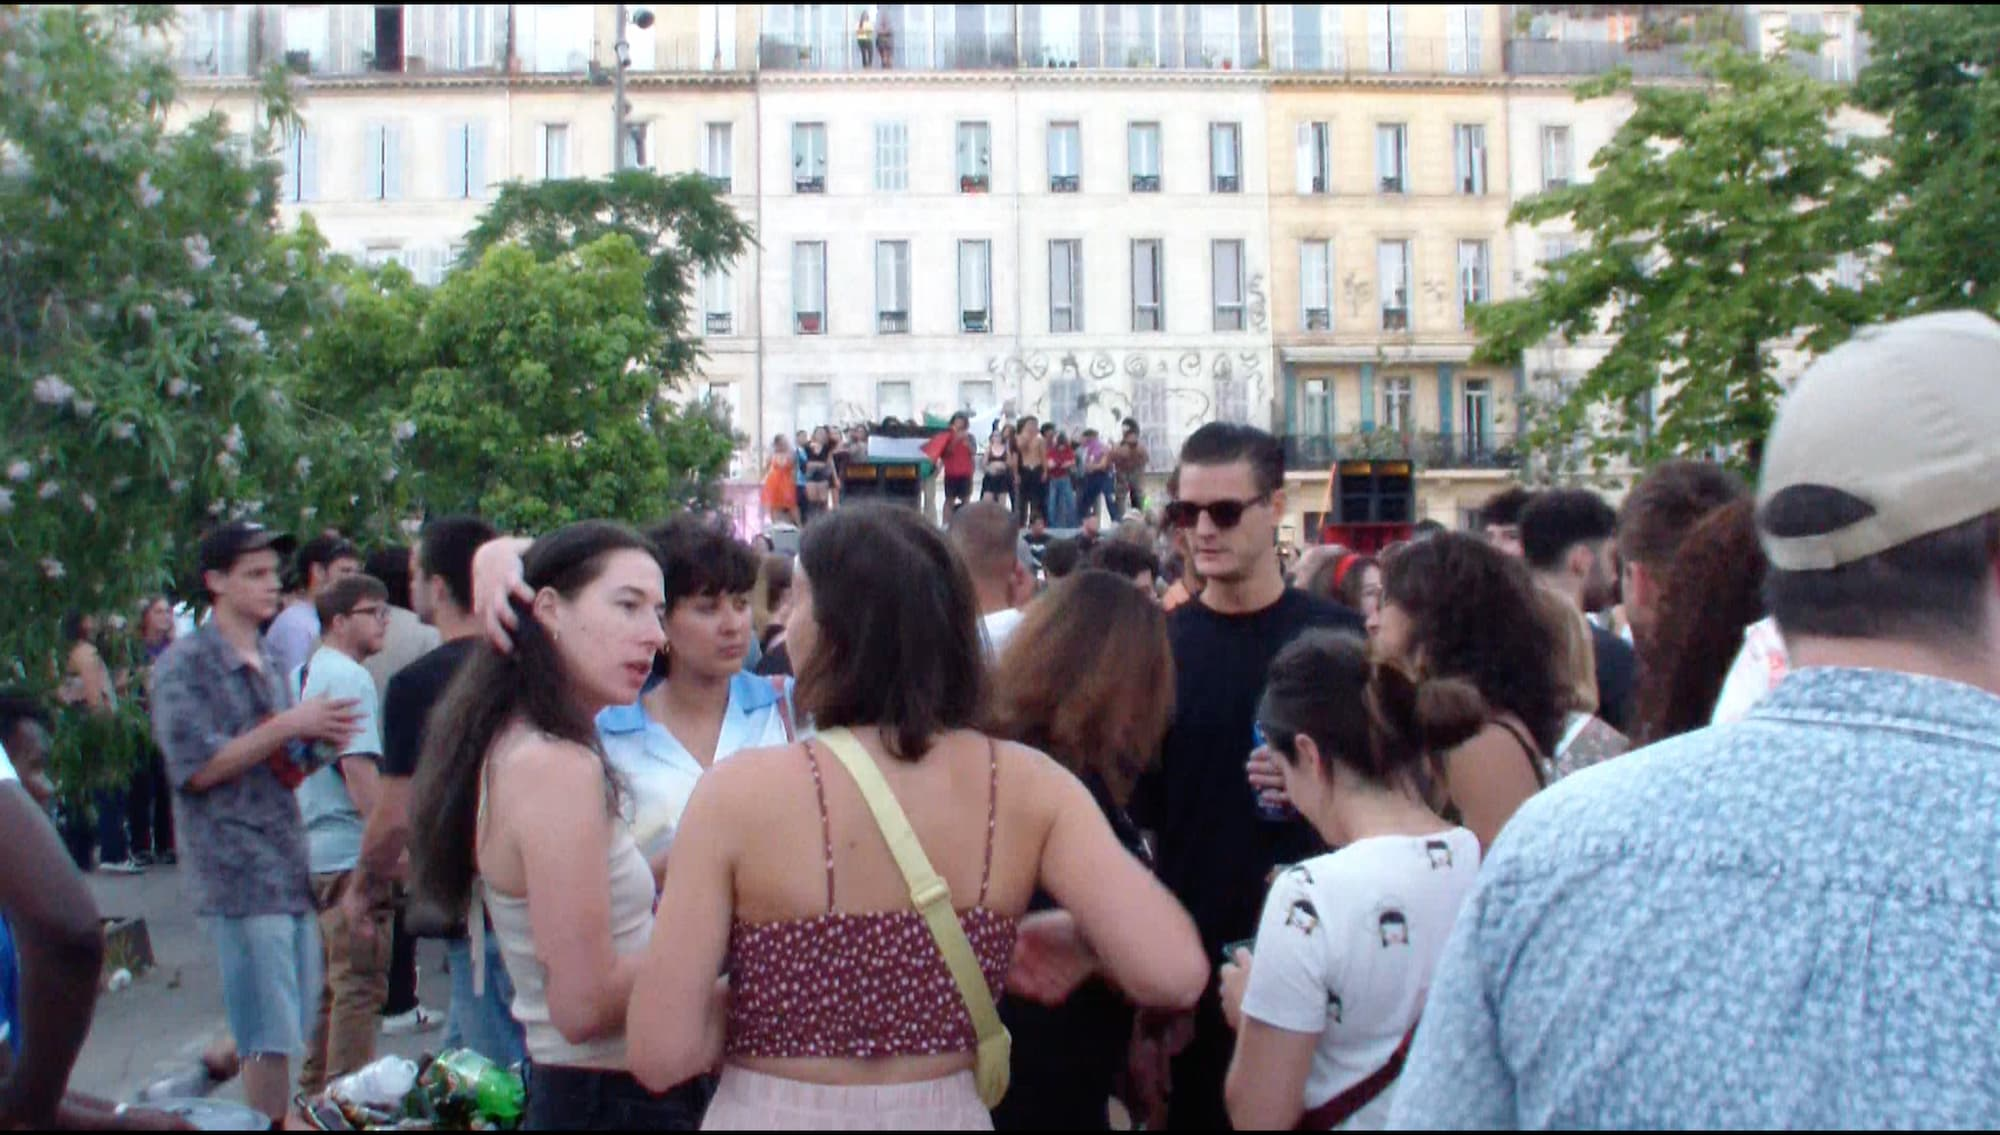
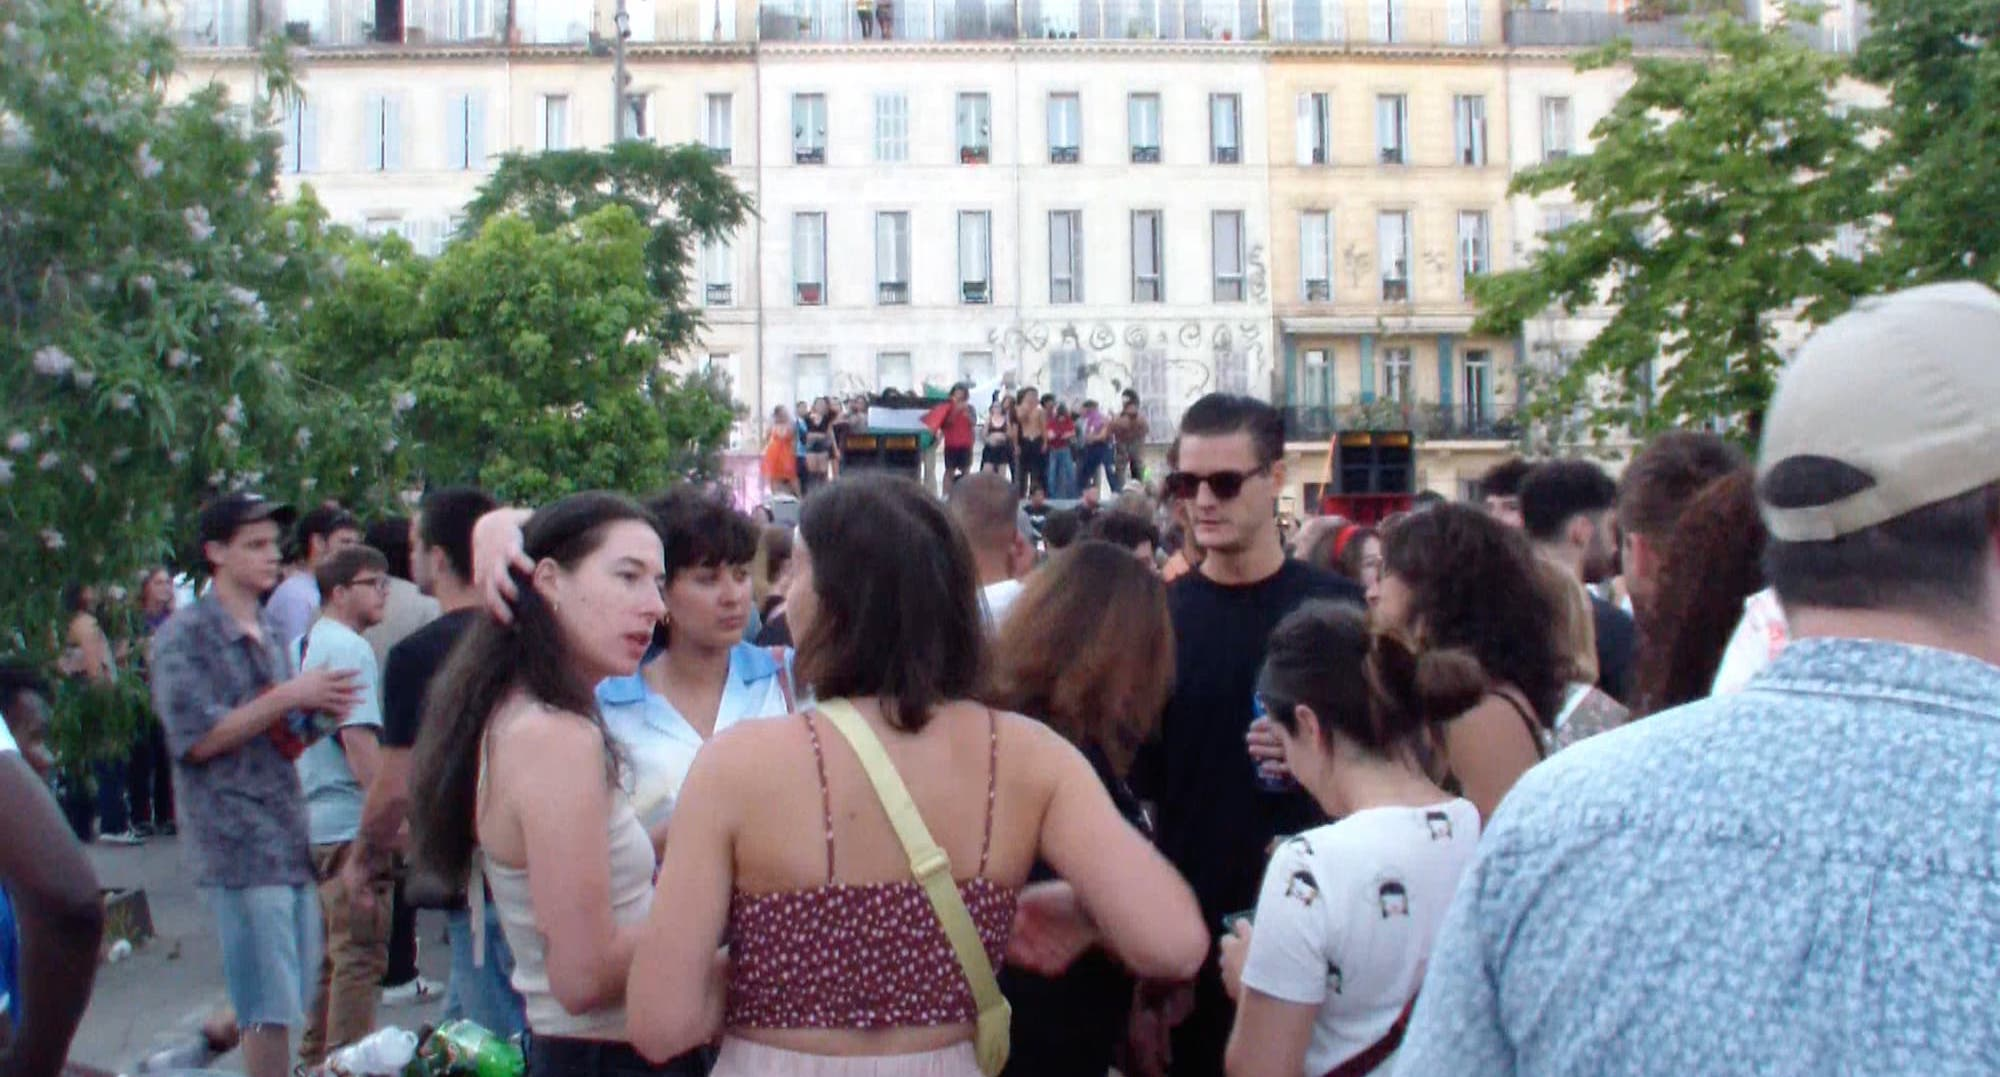
fixes

diff --git a/index.html b/index.html
@@ -190,10 +190,10 @@
 						<p>One of the traditions of the “Carnaval de la Plaine” is that anyone who dares to arrive without a costume is pelted with flour. I think this works as a way to create solidarity and reinforce the collective spirit of the event. By requiring participation through costume, the carnival actively rejects passive spectatorship, making everyone a part of the protest rather than just an observer.</p>
 						<figure>
 							<div class="imgGallery">
-								<img class="figImg" src="./assets/imgs/3_imgs.jpg" alt="">
-								<img class="figImg" src="./assets/imgs/3_imgs.jpg" alt="">
-								<img class="figImg" src="./assets/imgs/3_imgs.jpg" alt="">
-								<img class="figImg" src="./assets/imgs/3_imgs.jpg" alt="">
+								<img class="figImg" src="./assets/imgs/marseille_1.jpg" alt="">
+								<img class="figImg" src="./assets/imgs/marseille_2.jpg" alt="">
+								<img class="figImg" src="./assets/imgs/marseille_3.jpg" alt="">
+								<img class="figImg" src="./assets/imgs/marseille_4.jpg" alt="">
 							</div>
 							<figcaption>
 								Figure 5-9: screenshots of my videos of “Carnaval de la Plaine” 2024
@@ -203,11 +203,12 @@
 						<p>Fête de la Musique carries the same spirit as the carnival but with a stronger focus on sound system culture. What makes it so powerful is that the audience are the same people who are the organizers. It is fully accessible—no tickets, no corporate interference. Even though there is no security the event still feels safe because there is a sense of community. It is interesting to see what happens when the rules disappear for one day. By rules, I mean no volume limits, liquor licenses, or other permits. For one day the locals are allowed to make their own decisions, and in doing so they take over the whole city.</p>
 						<figure>
 							<div class="imgGallery">
-								<img class="figImg" src="./assets/imgs/3_imgs.jpg" alt="">
-								<img class="figImg" src="./assets/imgs/3_imgs.jpg" alt="">
-								<img class="figImg" src="./assets/imgs/3_imgs.jpg" alt="">
-								<img class="figImg" src="./assets/imgs/3_imgs.jpg" alt="">
-							</div>							<figcaption>
+								<img class="figImg" src="./assets/imgs/marseille_5.jpg" alt="">
+								<img class="figImg" src="./assets/imgs/marseille_6.jpg" alt="">
+								<img class="figImg" src="./assets/imgs/marseille_7.jpg" alt="">
+								<img class="figImg" src="./assets/imgs/marseille_8.jpg" alt="">
+							</div>
+							<figcaption>
 								Figure 10-14: screenshots of my videos of “Fête de la Musique” 2024
 							</figcaption>
 						</figure>

diff --git a/assets/css/style.css b/assets/css/style.css
@@ -194,6 +194,8 @@ figure{
 
 .imgGallery .figImg{
   width: calc(50% - 0.5rem);
+  object-fit: cover;
+  aspect-ratio: 14 / 9;
   float: left;
   padding-bottom: 0.5rem;
   padding-right: 0.5rem;
